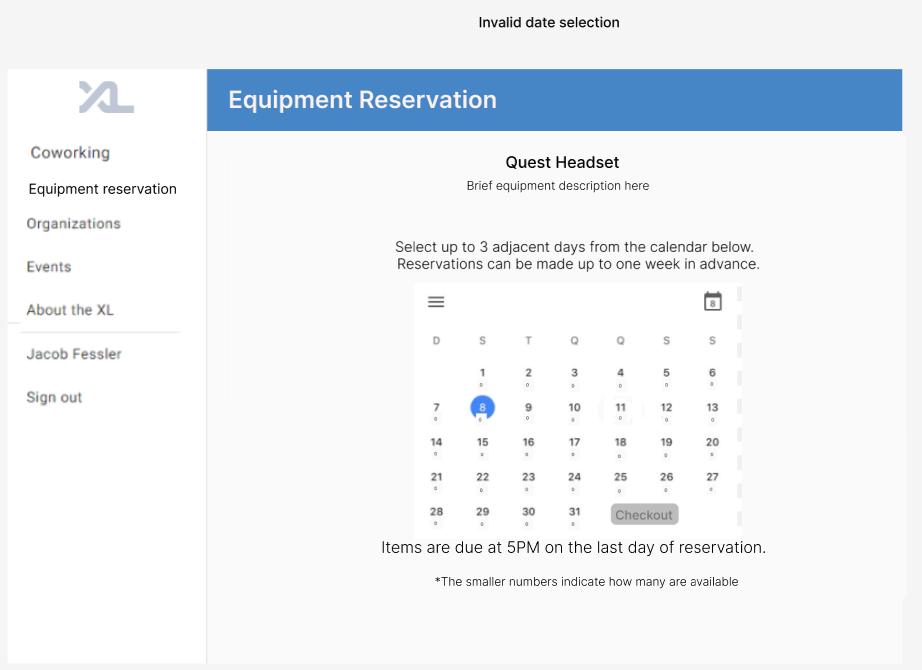
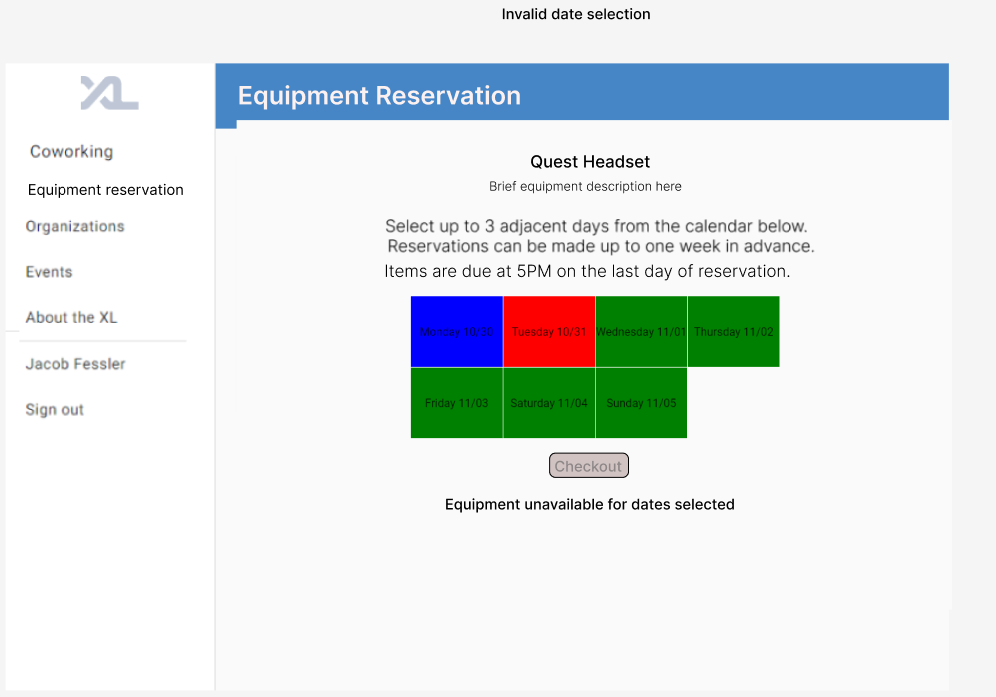
Redesign availability wireframe and rewrite descriptions

diff --git a/docs/equipment-reservation-system-design-doc.md b/docs/equipment-reservation-system-design-doc.md
@@ -117,7 +117,7 @@ Equipment reservation is added to the navbar menu.  Before checking out an item 
 ### Story D
 ![image info](./images/items.png)
 
-Both Amy Ambassador and Sally Student should be able to access the library of equipment and their availability status.  Each type of equipment is listed in its own card and grouped by whether it is available or not with a brief description.  Available equipment types have a button that links to story E.  The my checkouts button links to Sally Student's checkout history.
+Both Amy Ambassador and Sally Student should be able to access the library of equipment and their availability status.  Each type of equipment is listed in its own card that is grouped by whether it is currently available.  Each card has a button that redirects to a page to view availability and checkout. Cards in the currently available section have the button labeled "checkout"; cards in the currently  unavailable section have the button labeled "view availability".  The my checkouts button links to Sally Student's checkout history.
 ![image info](./images/history.png)
 
 Sally Student can view current and previous checkouts including device ID, type, dates, and status.
@@ -128,4 +128,4 @@ Valid date range
 Invalid date range
 ![image info](./images/invalidcheckout.png)
 
-Both Amy Ambassador and Sally Student can click on the checkout button for available equipment types. These equipment types have a brief description, and instructions for using a calendar widget to checkout the equipment.  If a valid date range is selected, the button will be styled as active and work, if not the button will be grayed out and not work. The number of available devices is listed beneath each date.
+Both Amy Ambassador and Sally Student can view a page with availability of a type of equipment displayed in a grid. The page for each type has a brief description, and instructions for using the grid widget to select dates.  If a valid date range is selected, the user can checkout the device with the button.
